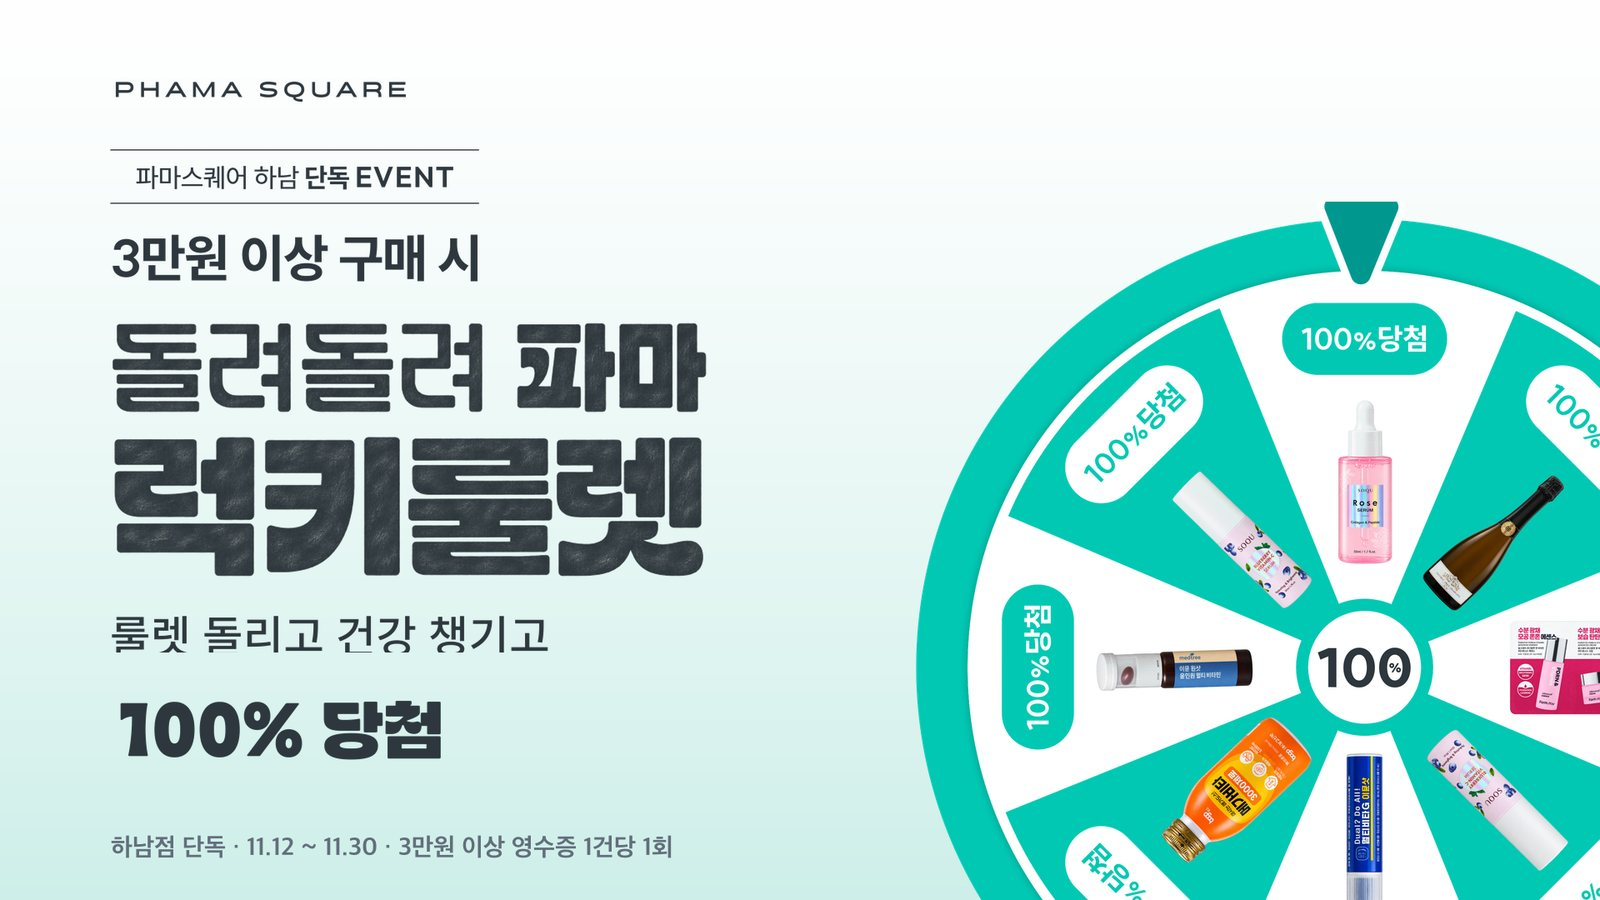
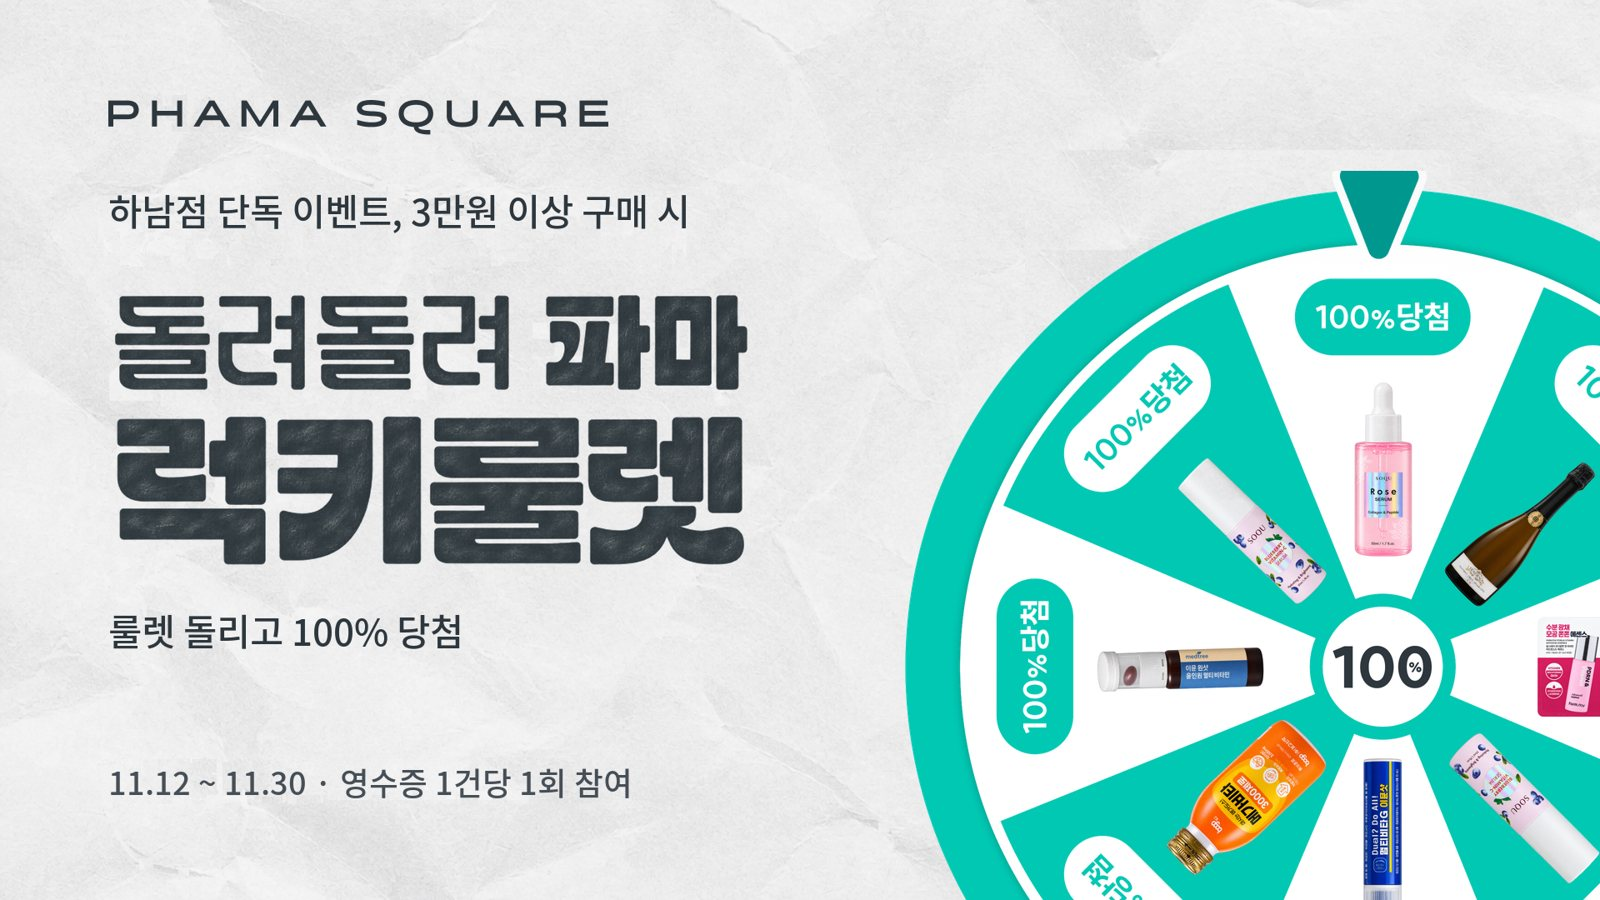
행사 현황 실시간 — 홈을 열 때 PS-OS 공개 피드(psos_promo_feed)로 현황 · 이름 · 기간 · 지점을 덮어 확정 아닌 건은 내림, 럭키룰렛 대표 장을 수능 장표 꼴(종이 바탕 · 왼쪽 위 로고 · 왼쪽 문구 · 오른쪽 룰렛)으로 다시

diff --git a/src/PromoBanner.jsx b/src/PromoBanner.jsx
@@ -1,6 +1,38 @@
 import { useState, useEffect, useRef } from "react";
 import { PROMOTIONS } from "./promotions.js";
 import { STORE_PHOTOS } from "./storePhoto.js";
+import { STORE } from "./store.js";
+
+/* PS-OS 프로모션 화면에서 고친 현황 · 이름 · 기간 · 지점을 열 때 받아 덮는다(2026-11-19 사용자 「공개 통로 열기」).
+   Supabase 함수 psos_promo_feed(PS-OS supabase/psos-promo-feed.sql)가 네 칸만 공개한다. 못 받으면 빌드 때 실린 값 그대로.
+   빌드 때 실린 행사만 덮는다 — 새로 확정된 행사는 장표 그림이 번들에 있어야 해서 키오스크 동기화(scripts/sync-racks.mjs) 뒤에 뜬다 */
+const FEED_URL = "https://jdondfrukwetncyxwrtt.supabase.co/rest/v1/rpc/psos_promo_feed";
+const FEED_KEY = "eyJhbGciOiJIUzI1NiIsInR5cCI6IkpXVCJ9.eyJpc3MiOiJzdXBhYmFzZSIsInJlZiI6Impkb25kZnJ1a3dldG5jeXh3cnR0Iiwicm9sZSI6ImFub24iLCJpYXQiOjE3OTA3MjIxNjksImV4cCI6MjEwNjI5ODE2OX0.DJA-Eun7iT403KcJWFv0F6aLkAv5t0N2OZ3cu4AURNo";
+const ST_OLD = { "진행": "확정", "진행 중": "확정", "완료": "확정" };
+const STORE_KO = { guro: "구로", hanam: "하남" };
+let feedP = null;
+const loadFeed = () => feedP || (feedP = (typeof fetch === "function"
+  ? fetch(FEED_URL, { method: "POST", headers: { apikey: FEED_KEY, Authorization: "Bearer " + FEED_KEY, "Content-Type": "application/json" }, body: "{}" })
+      .then((r) => (r.ok ? r.json() : {})).catch(() => ({}))
+  : Promise.resolve({})));
+/* 고친 값 덮기 — 현황이 확정이 아니거나 이 지점이 빠지면 내리고, 이름 · 기간은 바꿔 단다 */
+export function applyFeed(list, feed, store = STORE) {
+  if (!feed || typeof feed !== "object") return list;
+  return list.flatMap((p) => {
+    const o = feed[p.id]; if (!o || p.src !== "프칼") return [p];
+    const st = o.status ? (ST_OLD[o.status] || o.status) : "확정";
+    if (st !== "확정") return [];
+    if (o.store && !new RegExp(STORE_KO[store] + "|전체|전 지점").test(o.store)) return [];
+    const q = { ...p };
+    if (o.name) { const [t, sub] = String(o.name).split(/\s+—\s+/); q.title = t; if (sub != null) q.sub = sub; }
+    if (o.period) {
+      let [from, to] = String(o.period).split("~").map((v) => v.trim());
+      if (/^\d{4}-\d{2}$/.test(from)) { if (!to) to = from + "-31"; from = from + "-01"; }
+      if (from) { q.from = from; q.to = to || null; }
+    }
+    return [q];
+  });
+}
 
 /* 홈 상단 프로모션 배너.
  *
@@ -20,7 +52,9 @@ const bgOf = (p, k) => `url(${(p.image && slideUrl(p.image)) || STORE_PHOTOS[k %
 export default function PromoBanner({ onPress, interval = 5000, bleed = 0 }) {
   /* 프칼 건은 그날 기간 안에 있는 것만. 하나도 없으면 상시 건(src 상시) — scripts/sync-racks.mjs */
   const today = new Date(Date.now() + 9 * 3600e3).toISOString().slice(0, 10);
-  const live = PROMOTIONS.filter((p) => (!p.from || p.from <= today) && (!p.to || p.to >= today));
+  const [feed, setFeed] = useState(null);
+  useEffect(() => { let on = true; loadFeed().then((f) => { if (on) setFeed(f); }); return () => { on = false; }; }, []);
+  const live = applyFeed(PROMOTIONS, feed).filter((p) => (!p.from || p.from <= today) && (!p.to || p.to >= today));
   const cal = live.filter((p) => p.src === "프칼");
   const items = cal.length ? cal : live.filter((p) => p.src !== "프칼");
   const [i, setI] = useState(0);
